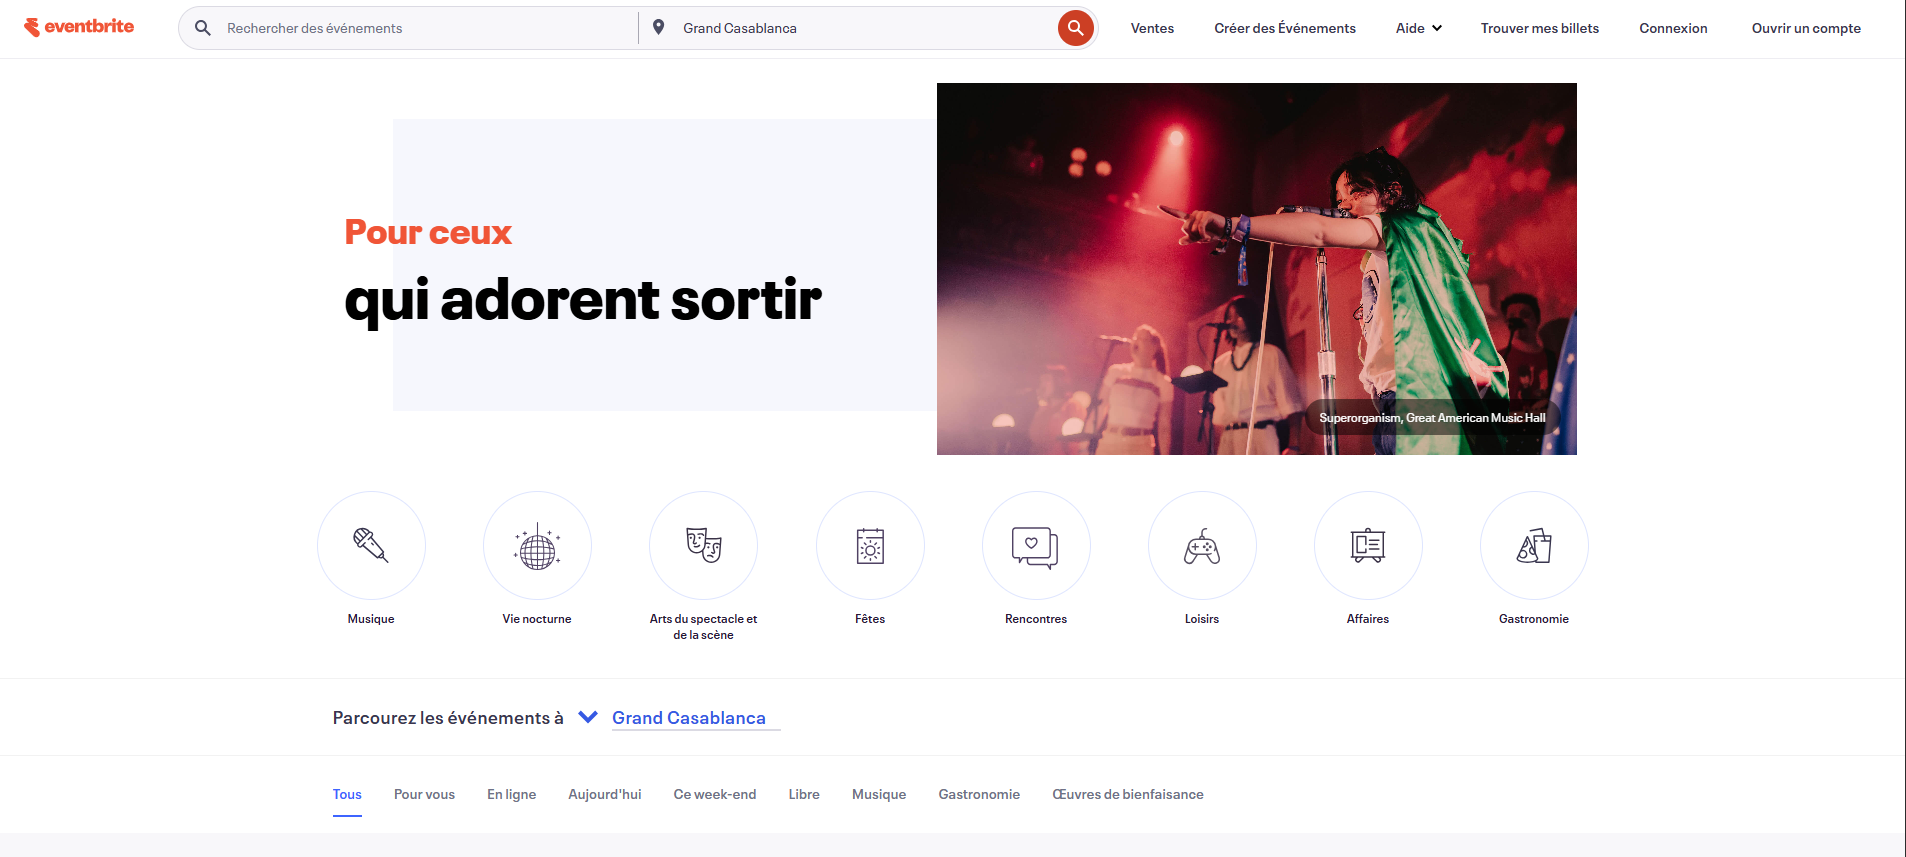
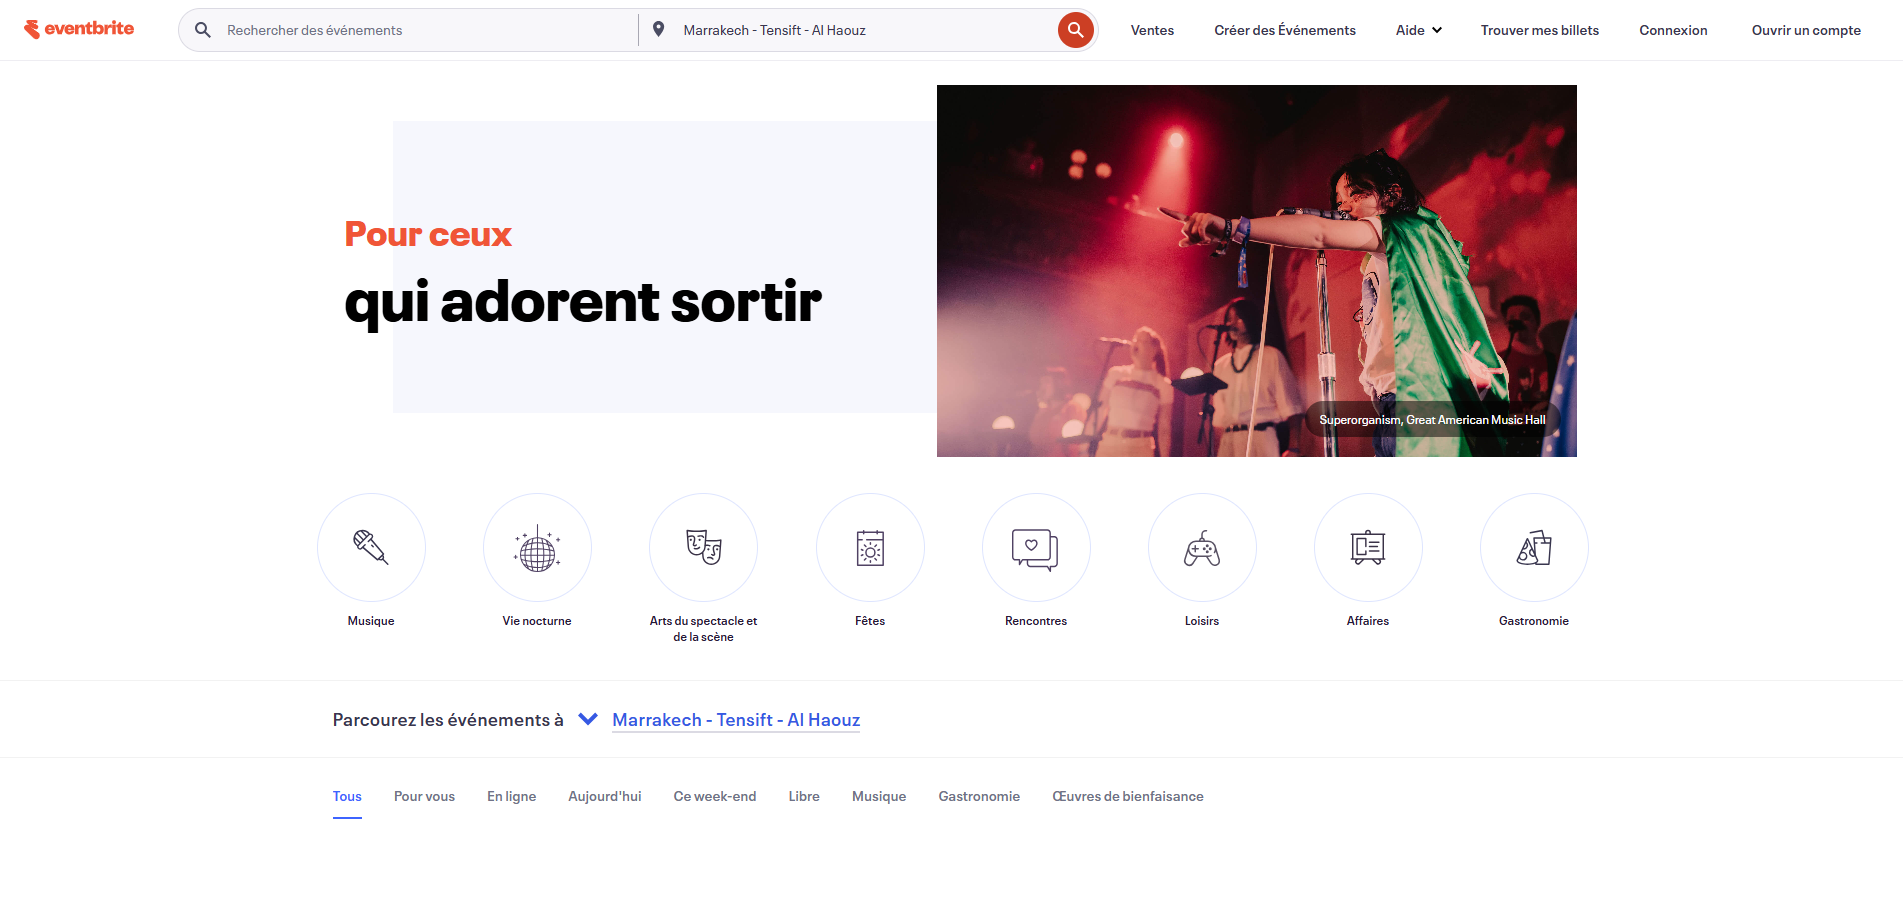
Feat : add my projects to the portfolio

diff --git a/src/components/ProjectsPage.tsx b/src/components/ProjectsPage.tsx
@@ -1,0 +1,285 @@
+import React, { useState } from 'react';
+import { motion, useMotionValue, useTransform } from 'framer-motion';
+import { ExternalLink, Github, Code, Palette, Database, Smartphone, Star } from 'lucide-react';
+
+export function ProjectsPage(){
+  const [activeFilter, setActiveFilter] = useState('all');
+  
+  const projects = [
+    {
+      id: 1,
+      title: "Qarib App",
+      description: "Qarib is a Flutter app that connects users with local service providers for easy booking and real-time order tracking.",
+      image: "https://qarib.ma/logo.jpeg",
+      category: "mobile",
+      technologies: ["Flutter", "Nest.js", "MySQL", "Digital Ocean", "Firebase"],
+      liveUrl: "#",
+      githubUrl: "#",
+      featured: true,
+      year: "07/07/2025"
+    },
+    {
+      id: 2,
+      title: "Code Space — Developer Community Platform",
+      description: "Code Space is a community platform for developers to share knowledge, discuss programming topics, and collaborate on projects in a user-friendly environment.",
+      image: "./projects/codespace.jpg",
+      category: "fullstack",
+      technologies: ["Laravel","PHP","Blade","MySQL", "JavaScript", "Tailwind", "AJAX"],
+      liveUrl: "#",
+      githubUrl: "https://github.com/Skayologie/CodeSpace/tree/develop",
+      featured: false,
+      year: "04/05/2025"
+    },
+    {
+      id: 3,
+      title: "Eventbrite-Inspired Event Management & Ticketing Platform",
+      description: "An event management platform that enables users to create, discover, and manage events easily, with built-in ticket booking and promotion features.",
+      image: "./projects/Eventbrite.png",
+      category: "fullstack",
+      technologies: ["PHP","HTML","CSS3", "JavaScript","AJAX", "Tailwind"],
+      liveUrl: "#",
+      githubUrl: "https://github.com/Skayologie/Eventbrite",
+      featured: false,
+      year: "18/01/2025"
+    },
+    {
+      id: 4,
+      title: "Scrum Board Tasks Manager ",
+      description: "Scrum Board is an interactive, user-friendly Scrum Board task management application built with JavaScript Vanilla, HTML5, and CSS3 Bootstrap .",
+      image: "https://raw.githubusercontent.com/aymanebenhima/YouCodeScrumBoard/refs/heads/main/design/desktop.png",
+      category: "fullstack",
+      technologies: ["HTML","CSS3", "JavaScript"],
+      liveUrl: "#",
+      githubUrl: "https://github.com/Skayologie/Scrum-Board",
+      featured: false,
+      year: "05/11/2024"
+    },
+  ];
+
+  const filters = [
+    { id: 'all', label: 'All Projects', icon: Code },
+    { id: 'featured', label: 'Featured', icon: Star },
+    { id: 'fullstack', label: 'Full Stack', icon: Database },
+    { id: 'mobile', label: 'Mobile', icon: Smartphone }
+  ];
+
+  const filteredProjects = projects.filter(project => {
+    if (activeFilter === 'all') return true;
+    if (activeFilter === 'featured') return project.featured;
+    return project.category === activeFilter;
+  });
+
+  const ProjectCard = ({ project, index }) => {
+    const x = useMotionValue(0);
+    const y = useMotionValue(0);
+    const rotateX = useTransform(y, [-0.5, 0.5], [3, -3]);
+    const rotateY = useTransform(x, [-0.5, 0.5], [-3, 3]);
+
+    const handleMouseMove = (e) => {
+      const rect = e.currentTarget.getBoundingClientRect();
+      const xVal = (e.clientX - rect.left - rect.width / 2) / rect.width;
+      const yVal = (e.clientY - rect.top - rect.height / 2) / rect.height;
+      x.set(xVal);
+      y.set(yVal);
+    };
+
+    const handleMouseLeave = () => {
+      x.set(0);
+      y.set(0);
+    };
+
+    return (
+      <motion.div
+        initial={{ opacity: 0, y: 30 }}
+        animate={{ opacity: 1, y: 0 }}
+        transition={{ 
+          duration: 0.6, 
+          delay: index * 0.1,
+          ease: "easeOut"
+        }}
+        style={{
+          rotateX,
+          rotateY,
+          transformStyle: 'preserve-3d'
+        }}
+        onMouseMove={handleMouseMove}
+        onMouseLeave={handleMouseLeave}
+        className="group relative bg-gray-900 rounded-xl overflow-hidden border border-gray-800 hover:border-orange-500/50 transition-all duration-500 cursor-pointer"
+      >
+        <div className="relative overflow-hidden">
+          <div className="w-full h-48 bg-gradient-to-br from-orange-500/10 to-orange-600/5 flex items-center justify-center relative">
+            <div className="text-orange-500/20 text-4xl font-bold">{project.title.split(' ')[0]}</div>
+            <div className="absolute justify-center items-center flex inset-0 bg-gradient-to-t from-gray-900/80 to-transparent">
+              <div className="absolute justify-center items-center flex inset-0  to-transparent">
+                <img className='h-full' src={project.image}/>
+              </div>
+                <img className='' src={project.image}/>
+            </div>
+          </div>
+          
+          <div className="absolute top-4 right-4 flex gap-2 opacity-0 group-hover:opacity-100 transition-opacity duration-300">
+            <motion.a
+              href={project.liveUrl}
+              whileHover={{ scale: 1.1, rotate: 5 }}
+              className="p-2 bg-orange-500 rounded-full shadow-lg hover:bg-orange-600 transition-colors"
+            >
+              <ExternalLink className="w-4 h-4 text-white" />
+            </motion.a>
+            <motion.a
+              href={project.githubUrl}
+              whileHover={{ scale: 1.1, rotate: -5 }}
+              className="p-2 bg-gray-800 rounded-full shadow-lg hover:bg-gray-700 transition-colors"
+            >
+              <Github className="w-4 h-4 text-white" />
+            </motion.a>
+          </div>
+
+          <div className="absolute top-4 left-4">
+            <span className="px-3 py-1 bg-gray-800/80 text-gray-300 text-sm rounded-full backdrop-blur-sm">
+              {project.year}
+            </span>
+          </div>
+        </div>
+        
+        <div className="p-6">
+          <div className="flex items-center gap-2 mb-3">
+            <h3 className="text-xl font-bold text-white group-hover:text-orange-500 transition-colors">
+              {project.title}
+            </h3>
+            {project.featured && (
+              <motion.div
+                initial={{ scale: 0 }}
+                animate={{ scale: 1 }}
+                className="flex items-center gap-1 px-2 py-1 bg-orange-500/20 text-orange-500 text-xs font-medium rounded-full"
+              >
+                <Star className="w-3 h-3" />
+                Featured
+              </motion.div>
+            )}
+          </div>
+          
+          <p className="text-gray-400 mb-4 text-sm leading-relaxed">
+            {project.description}
+          </p>
+          
+          <div className="flex flex-wrap gap-2 mb-6">
+            {project.technologies.map((tech, techIndex) => (
+              <motion.span
+                key={techIndex}
+                whileHover={{ scale: 1.05 }}
+                className="px-3 py-1 bg-gray-800 text-gray-300 text-xs rounded-full hover:bg-orange-500/20 hover:text-orange-500 transition-all duration-300 border border-gray-700"
+              >
+                {tech}
+              </motion.span>
+            ))}
+          </div>
+          
+          <div className="flex gap-3">
+            <motion.a
+              href={project.liveUrl}
+              whileHover={{ scale: 1.02 }}
+              whileTap={{ scale: 0.98 }}
+              className="flex-1 py-3 px-4 bg-orange-500 text-white text-center rounded-lg hover:bg-orange-600 transition-all duration-300 text-sm font-medium shadow-lg hover:shadow-orange-500/25"
+            >
+              Live Demo
+            </motion.a>
+            <motion.a
+              href={project.githubUrl}
+              whileHover={{ scale: 1.02 }}
+              whileTap={{ scale: 0.98 }}
+              className="flex-1 py-3 px-4 bg-gray-800 text-gray-300 text-center rounded-lg hover:bg-gray-700 transition-all duration-300 text-sm font-medium border border-gray-700"
+            >
+              View Code
+            </motion.a>
+          </div>
+        </div>
+
+        {/* Hover glow effect */}
+        <div className="absolute inset-0 rounded-xl bg-gradient-to-r from-orange-500/10 to-orange-600/10 opacity-0 group-hover:opacity-100 transition-opacity duration-500 pointer-events-none"></div>
+      </motion.div>
+    );
+  };
+
+  return (
+    <div className="min-h-screen ">
+      {/* Header Section */}
+      <section className="container pt-20 pb-16">
+        <h2 className="text-3xl font-sora font-bold">
+          My <span className="text-primary">Projects</span>
+        </h2>
+        <div className="text-center mb-16">
+          <motion.div
+            initial={{ opacity: 0, y: -30 }}
+            animate={{ opacity: 1, y: 0 }}
+            transition={{ duration: 0.8 }}
+            className="relative inline-block"
+          >
+            
+            <div className="absolute -z-10 top-1/2 left-1/2 -translate-x-1/2 -translate-y-1/2 w-96 h-48 rounded-full bg-orange-500/5 blur-3xl"></div>
+          </motion.div>
+          
+          <motion.p
+            initial={{ opacity: 0, y: 20 }}
+            animate={{ opacity: 1, y: 0 }}
+            transition={{ duration: 0.8, delay: 0.2 }}
+            className="text-xl text-gray-400 max-w-3xl mx-auto leading-relaxed"
+          >
+            A showcase of my work in web development, featuring projects built with modern technologies
+            and best practices. Each project represents my commitment to quality and innovation.
+          </motion.p>
+        </div>
+
+        {/* Filter Navigation */}
+        <motion.div
+          initial={{ opacity: 0, y: 20 }}
+          animate={{ opacity: 1, y: 0 }}
+          transition={{ duration: 0.8, delay: 0.4 }}
+          className="flex flex-wrap justify-center gap-4 mb-16"
+        >
+          {filters.map((filter) => {
+            const Icon = filter.icon;
+            return (
+              <motion.button
+                key={filter.id}
+                whileHover={{ scale: 1.05 }}
+                whileTap={{ scale: 0.95 }}
+                onClick={() => setActiveFilter(filter.id)}
+                className={`flex items-center gap-2 px-6 py-3 rounded-full font-medium transition-all duration-300 ${
+                  activeFilter === filter.id
+                    ? 'bg-orange-500 text-white shadow-lg shadow-orange-500/25'
+                    : 'bg-gray-900 text-gray-300 hover:bg-gray-800 hover:text-orange-500 border border-gray-800'
+                }`}
+              >
+                <Icon className="w-4 h-4" />
+                {filter.label}
+              </motion.button>
+            );
+          })}
+        </motion.div>
+      </section>
+
+      {/* Projects Grid */}
+      <section className="container pb-20">
+        <div className="grid grid-cols-1 md:grid-cols-2 lg:grid-cols-3 gap-8">
+          {filteredProjects.map((project, index) => (
+            <ProjectCard key={project.id} project={project} index={index} />
+          ))}
+        </div>
+        
+        {filteredProjects.length === 0 && (
+          <motion.div
+            initial={{ opacity: 0 }}
+            animate={{ opacity: 1 }}
+            className="text-center py-16"
+          >
+            <div className="text-gray-600 text-6xl mb-4">🔍</div>
+            <h3 className="text-xl font-semibold text-gray-300 mb-2">No projects found</h3>
+            <p className="text-gray-500">Try selecting a different filter</p>
+          </motion.div>
+        )}
+      </section>
+
+    </div>
+  );
+};
+

diff --git a/src/app/page.tsx b/src/app/page.tsx
@@ -7,7 +7,7 @@ import { ExperienceTimeline } from "@/components/ExperienceTimeline";
 import { HireMeSection } from "@/components/HireMeSection";
 import { PortfolioSection } from "@/components/PortfolioSection";
 import { TestimonialsSection } from "@/components/TestimonialsSection";
-import { BlogSection } from "@/components/BlogSection";
+import { ProjectsPage } from "@/components/ProjectsPage";
 import { Footer } from "@/components/Footer";
 import { motion, useMotionValue, useTransform } from 'framer-motion';
 import ScrollVelocity from '@/components/ui/TextAnimations/ScrollVelocity/ScrollVelocity';
@@ -41,8 +41,7 @@ export default function page()  {
             />
           </div>
           <MyResume />
-          <ExperienceTimeline />
-          <BlogSection />
+          <ProjectsPage />
           <Footer />
         </div>
       </div>
